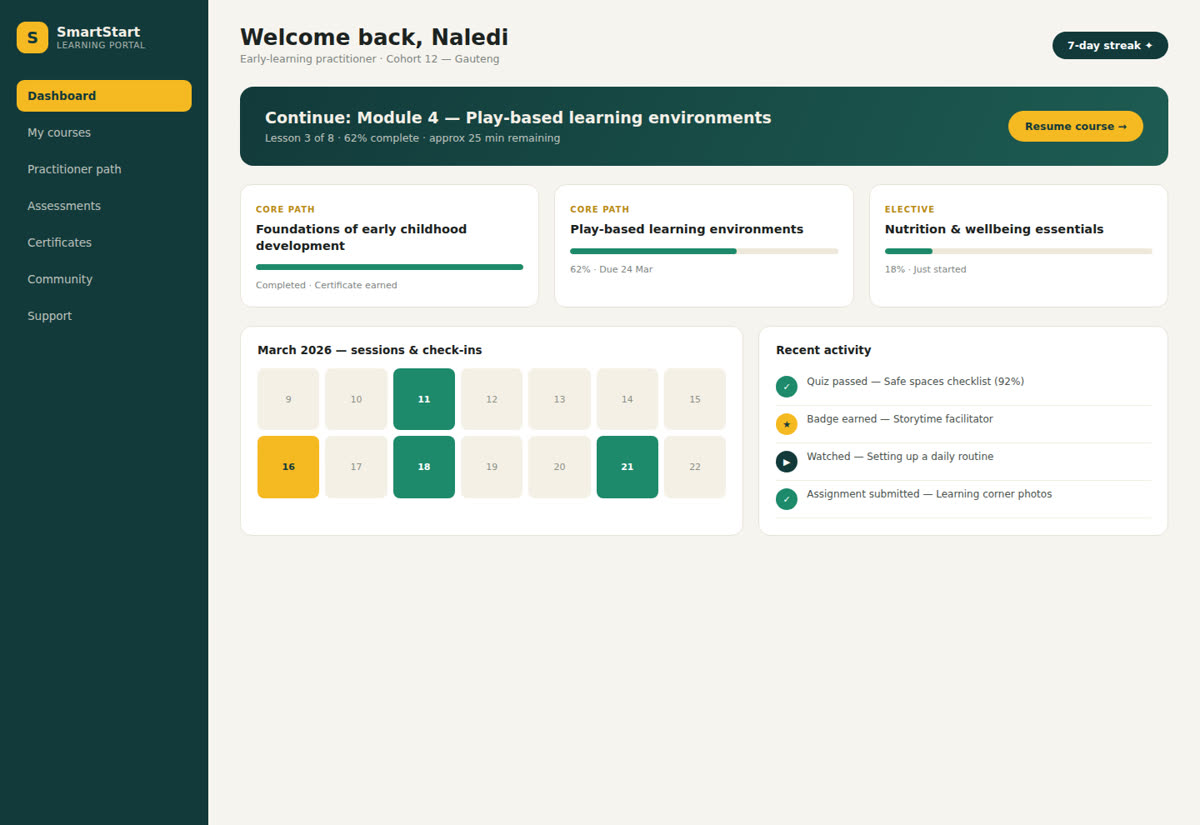
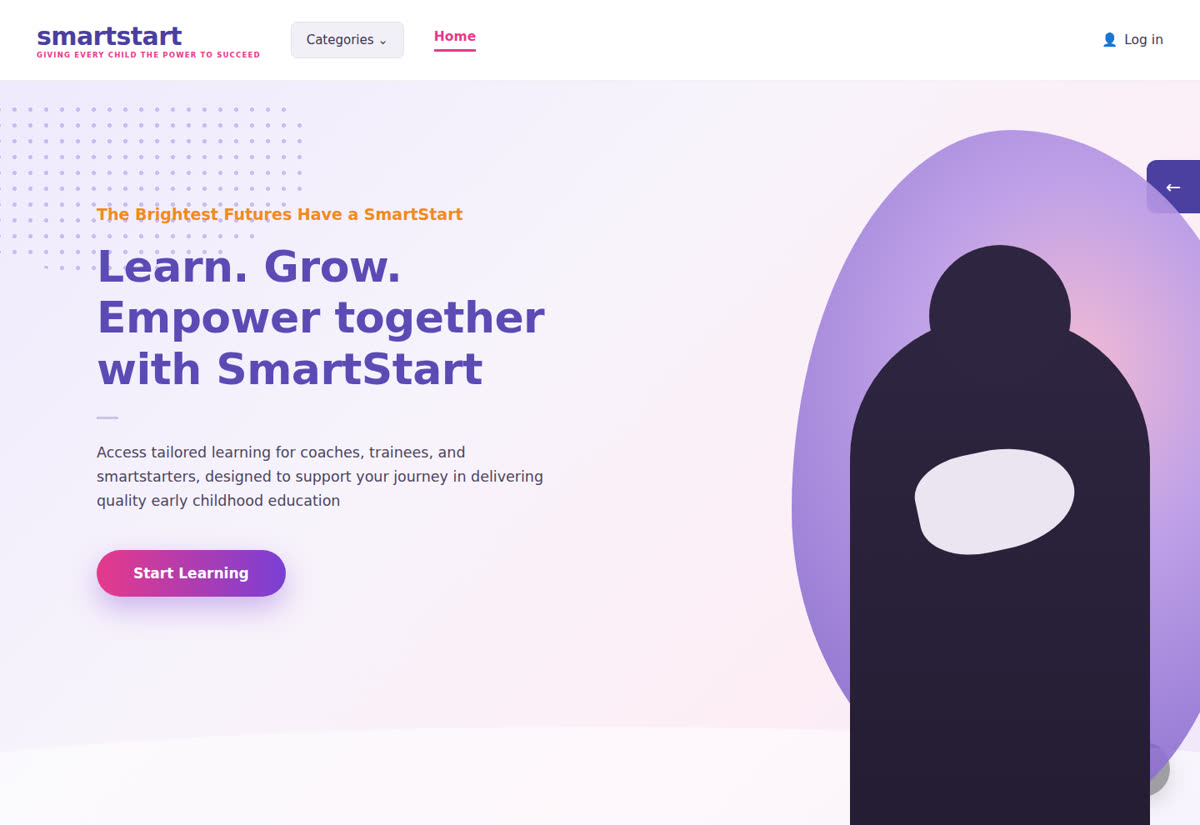
Clean work cards: remove tagline overlays, refit mockups, new SmartStart shot
All four Selected Work cards drop the white overlay words and the bottom
scrim, letting the product screenshots read clean. The WasteMart Driver
capture is cropped tighter so the phone fills the frame, and the
SmartStart card is recomposed to mirror the real learning portal's
landing page — violet gradient hero, headline copy, Start Learning CTA
and dotted pattern — captured at the same card size.

Claude-Session: https://claude.ai/code/session_01K9p5N1UFJ9uPo18iNnefbk

diff --git a/assets/css/style.css b/assets/css/style.css
@@ -469,12 +469,6 @@ main { position: relative; }
   border-radius: 5px;
   pointer-events: none; z-index: 3;
 }
-.wcard__media::before {
-  content: ''; position: absolute; left: 0; right: 0; bottom: 0;
-  height: 46%;
-  background: linear-gradient(180deg, transparent, rgba(11, 11, 12, 0.6));
-  pointer-events: none; z-index: 1;
-}
 .card__canvas {
   position: absolute; inset: 0; width: 100%; height: 100%;
   object-fit: cover;

diff --git a/index.html b/index.html
@@ -159,7 +159,6 @@
           <article class="work__panel wcard card" data-cursor="Explore">
             <div class="wcard__media">
               <img class="card__canvas" src="assets/img/work/managem-dash.jpg" alt="ManaGem management system dashboard" loading="lazy" />
-              <span class="wcard__tagline" aria-hidden="true">Run it with clarity.</span>
               <span class="wcard__year">2026</span>
             </div>
             <div class="wcard__info">
@@ -172,7 +171,6 @@
           <article class="work__panel wcard card" data-cursor="Explore">
             <div class="wcard__media">
               <img class="card__canvas" src="assets/img/work/wm-customer.jpg" alt="WasteMart customer portal overview screen" loading="lazy" />
-              <span class="wcard__tagline" aria-hidden="true">Service, scheduled.</span>
               <span class="wcard__year">2026</span>
             </div>
             <div class="wcard__info">
@@ -185,7 +183,6 @@
           <article class="work__panel wcard card" data-cursor="Explore">
             <div class="wcard__media">
               <img class="card__canvas" src="assets/img/work/wm-driver.jpg" alt="WasteMart driver mobile app" loading="lazy" />
-              <span class="wcard__tagline" aria-hidden="true">Routes that run themselves.</span>
               <span class="wcard__year">2026</span>
             </div>
             <div class="wcard__info">
@@ -198,7 +195,6 @@
           <article class="work__panel wcard card" data-cursor="Explore">
             <div class="wcard__media">
               <img class="card__canvas" src="assets/img/work/smartstart.jpg" alt="SmartStart learning portal dashboard" loading="lazy" />
-              <span class="wcard__tagline" aria-hidden="true">Learning that scales.</span>
               <span class="wcard__year">2025</span>
             </div>
             <div class="wcard__info">

diff --git a/assets/js/main.js b/assets/js/main.js
@@ -269,7 +269,6 @@
       const reveals = [];
       document.querySelectorAll('.wcard').forEach((card) => {
         const tl = gsap.timeline({ paused: true })
-          .from(card.querySelector('.wcard__tagline'), { yPercent: 130, duration: 0.9, ease: 'power4.out' }, 0)
           .from(card.querySelector('.wcard__info'), { y: 50, opacity: 0, duration: 0.9, ease: 'power3.out' }, 0.12);
         reveals.push({ el: card, tl, at: 0.82, played: false });
       });